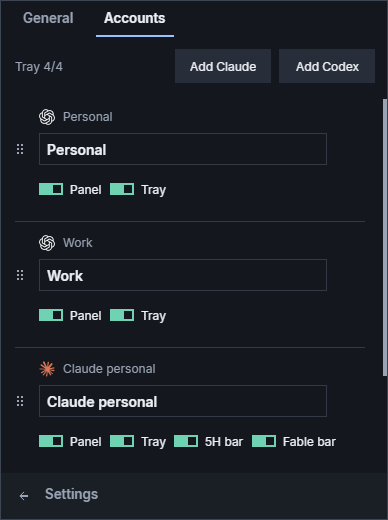
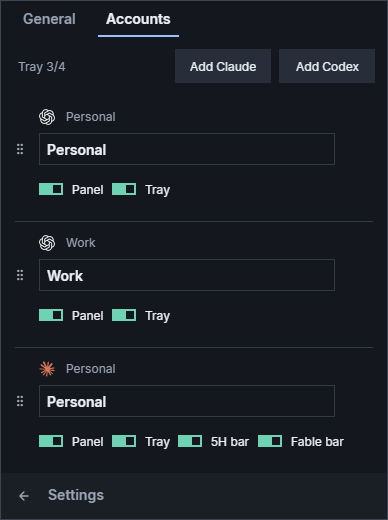
Simplify README and refresh usage screenshots

diff --git a/Diagnostics/Preview.cs b/Diagnostics/Preview.cs
@@ -8,7 +8,7 @@ internal static class Preview
     {
         string folder = Path.GetDirectoryName(Path.GetFullPath(path))!;
         Directory.CreateDirectory(folder);
-        var demo = SampleData.Readings();
+        var demo = SampleData.ScreenshotReadings();
         var prefs = new Settings();
         foreach (var reading in demo) prefs.For(reading.Account);
         var overview = new UsagePanel { PreviewMode = true };
@@ -65,9 +65,10 @@ internal static class Preview
         hidden.UpdateRows(demo, prefs, false);
         await Capture(hidden, Path.Combine(folder, "hidden-limits-preview.png")); hidden.Shutdown();
         prefs.For(demo[2].Account).ShowFiveHour = prefs.For(demo[2].Account).ShowFable = true;
-        var detail = new AccountDetailsDialog(SampleData.Detail(demo[2]), prefs) { PreviewMode = true };
+        var detailReading = demo[2] with { Limits = [new("weekly", "Weekly", demo[2].Weekly!), .. demo[2].Limits!] };
+        var detail = new AccountDetailsDialog(detailReading, prefs) { PreviewMode = true };
         await Capture(detail, Path.Combine(folder, "account-detail-preview.png")); detail.Close();
-        var resetless = new AccountDetailsDialog(SampleData.Detail(demo[2]) with { Limits = [new("weekly", "Weekly", demo[2].Weekly!), new("session", "Five-hour", new(0, null, TimeSpan.FromHours(5)))] }, prefs) { PreviewMode = true };
+        var resetless = new AccountDetailsDialog(detailReading with { Limits = [new("weekly", "Weekly", demo[2].Weekly!), new("session", "Five-hour", new(0, null, TimeSpan.FromHours(5)))] }, prefs) { PreviewMode = true };
         await Capture(resetless, Path.Combine(folder, "resetless-detail-preview.png")); resetless.Close();
         var empty = new UsagePanel { PreviewMode = true };
         empty.UpdateRows([], new Settings(), false);

diff --git a/Diagnostics/SampleData.cs b/Diagnostics/SampleData.cs
@@ -3,6 +3,21 @@ namespace Pace;
 // Synthetic fixtures only. Preview and offline tests never discover real accounts.
 internal static class SampleData
 {
+    public static List<Reading> ScreenshotReadings()
+    {
+        var now = DateTimeOffset.UtcNow;
+        var demo = Readings(now).Take(3).ToList();
+        demo[0] = demo[0] with { Weekly = new(36, now.AddDays(3.64), TimeSpan.FromDays(7)) };
+        demo[1] = demo[1] with { Weekly = new(41, now.AddDays(4.1), TimeSpan.FromDays(7)), Resets = null };
+        demo[2] = demo[2] with
+        {
+            Account = demo[2].Account with { Label = "Personal" },
+            Weekly = new(30, now.AddDays(4), TimeSpan.FromDays(7)),
+            Limits = [new("session", "Five-hour", new(68, now.AddHours(3), TimeSpan.FromHours(5))), new("model:Fable", "Fable · Weekly", new(28, now.AddDays(4), TimeSpan.FromDays(7)))]
+        };
+        return demo;
+    }
+
     public static List<Reading> Readings(DateTimeOffset? at = null)
     {
         var now = at ?? DateTimeOffset.UtcNow;

diff --git a/README.md b/README.md
@@ -1,165 +1,67 @@
 # Pace
 
-A Windows and Linux tray app that shows Claude and Codex subscription usage relative to each
-account's weekly reset.
+A compact tray app for tracking AI subscription usage across Codex and Claude accounts on Windows and Linux. See how your usage compares with the time elapsed in each account's weekly cycle.
+
+![Weekly usage overview with two Codex accounts and one Claude account](docs/screenshots/overview.png)
 
 ## Download
 
-[Download for Windows](https://github.com/mweint/Pace/releases/latest/download/Pace-win-x64.zip)
+**[Windows](https://github.com/mweint/Pace/releases/latest/download/Pace-win-x64.zip)** — Extract the ZIP and open `Pace.exe` in the `Pace` folder. Windows 10/11, x64; .NET is included.
 
-1. Extract the ZIP.
-2. Open `Pace.exe` in the extracted `Pace` folder.
-3. Click the tray icon to view usage or manage accounts.
+**[Linux (preview)](https://github.com/mweint/Pace/releases/latest/download/Pace-linux-x64.tar.gz)** — Extract the archive and run `./Pace/install.sh`. Requires an x64 desktop with X11 libraries and ICU. Tray support works with KDE Plasma or GNOME's AppIndicator extension. Linux still needs validation on real desktops.
 
-Windows 10/11, x64. The .NET runtime is included. Keep the extracted files together.
-### Linux (preview)
+Existing CLI sign-ins are detected automatically. To add an account, install the corresponding Codex or Claude CLI and sign in through Pace. Click the tray icon to open the panel.
 
-[Download for Linux](https://github.com/mweint/Pace/releases/latest/download/Pace-linux-x64.tar.gz)
+## Usage and accounts
 
-```sh
-tar xzf Pace-linux-x64.tar.gz
-./Pace/install.sh            # installs to ~/.local; ./Pace/install.sh --uninstall removes it
-```
-
-x64 desktops with a StatusNotifier tray: KDE Plasma, or GNOME with the AppIndicator
-extension (included in Ubuntu). Requires the X11 libraries most desktops include
-(`libice6`, `libsm6`, `libfontconfig1`) and ICU. The panel opens on the panel edge
-where your desktop reserves space, beside the tray icon on X11 sessions and in that
-edge's corner on Wayland; hover summaries appear as the tray tooltip. Opening Pace
-from the applications menu while it runs shows its panel, which also works without a
-tray icon.
-
-Existing CLI sign-ins are detected automatically. Adding accounts requires the
-corresponding Claude or Codex CLI; sign-in opens in your browser. If no browser
-opens, **Copy link** copies the CLI's sign-in link to paste into one.
-
-## Screenshots
-
-Weekly overview, using sample accounts:
-
-![Weekly overview](docs/screenshots/overview.png)
+- **Mint:** below pace. **Blue:** on pace. **Orange:** above pace. **Gray:** unavailable or stale.
+- Pace compares usage with the elapsed portion of the week. On pace spans 4 percentage points below to 2 points above that baseline.
+- Click an account for weekly, session and model limits. Reset times are local; hover for a countdown.
+- Settings lets you rename, reorder or hide accounts, choose Claude's overview bars, and enable launch at sign-in. Removing an account keeps its sign-in files.
+- Usage refreshes every five minutes. Update checks run at launch and every six hours; automatic updates are optional on Windows. Linux updates are downloaded manually.
 
 <details>
-<summary>Account details, account management and tray hover</summary>
+<summary>More screenshots</summary>
 
 Account details:
 
-![Account details](docs/screenshots/account-details.png)
+![Claude account details](docs/screenshots/account-details.png)
 
-Manage accounts:
+Accounts:
 
-![Manage accounts](docs/screenshots/accounts.png)
+![Account management](docs/screenshots/accounts.png)
 
 Settings:
 
-![Settings](docs/screenshots/settings.png)
+![General settings](docs/screenshots/settings.png)
 
 Tray hover:
 
-![Tray hover](docs/screenshots/tray-hover.png)
+![Tray hover summary](docs/screenshots/tray-hover.png)
 
 </details>
 
-## Reading the display
+## Privacy
 
-Pace compares usage with the portion of the week elapsed since each account's reset.
-The tray icon shows up to four accounts:
-
-- Orange: more than 2 percentage points above pace.
-- Mint: more than 4 percentage points below pace.
-- Blue: within the -4 to +2 point range, inclusive.
-- Gray: usage is unavailable or stale.
-
-`+9% · 15h` means 9 percentage points above pace, or about 15 hours until the
-baseline catches up if usage stops. This is not a forecast. Provider rounding
-limits the precision of these numbers.
-
-Click an account for its available weekly, session and model-specific limits.
-Reset labels show local clock time, adding the weekday for another day; hover
-the account for the countdown. Banked resets appear beside the reset time;
-hover the badge for expiry dates.
-Orange indicates an expiry within seven days. Pace does not redeem resets.
-
-Account names, visibility and order save automatically. Removing an account stops
-monitoring it and keeps its sign-in files. Click away to dismiss the panel;
-right-click the tray icon to quit. Opening Pace again while it runs shows the panel.
-Sign-in can be cancelled while the browser is open and stops after ten minutes. Usage refreshes every five minutes and pace
-every minute.
-
-Claude account options include **5H bar** and **Fable bar** for the overview
-bars. Account details always show all available limits. An orange dot after an
-account name means a hidden limit is at least 90% used. Click the account for
-details. The dot clears when the bar is shown, usage falls below 90%, or the
-limit resets. It cannot be dismissed. Details and the tray icon have no dots.
-
-## Local data
-
-Settings and managed sign-ins are stored in `%APPDATA%/Pace` on Windows and
-`~/.config/Pace` on Linux. Data from the previous app name migrates automatically.
-Launch at sign-in uses a current-user startup entry on Windows and an XDG autostart
-entry (`~/.config/autostart/pace.desktop`) on Linux.
-
-## Settings
-
-The overview gear opens Settings, with General and Accounts tabs. General lets
-you choose reset clock times or time remaining, and enable or disable launching at
-sign-in. Accounts retains naming, ordering, sign-in and visibility controls.
-Tabs share a stable window size and footer, with room for three accounts;
-longer lists use a slim themed scrollbar when needed. The
-tray count and add-account actions live inside Accounts.
-
-Updates are checked at launch and every six hours against this repository's
-latest stable GitHub release. Check for updates runs a check immediately.
-An orange dot on Settings indicates an available update; Dismiss clears it for
-that version without removing the Update action. Automatic updates default off.
-When enabled, Pace downloads a verified Windows package and installs it on the
-next launch. Update installs immediately and restarts Pace. Packages must match
-the release checksum and version. The installer backs up replaced files and
-restores them if copying fails; settings and sign-ins remain outside the app.
-On Linux, Pace notifies about a new release and Download opens its release page;
-it does not replace its own files.
-
-Existing CLI sign-ins respect `CODEX_HOME` and `CLAUDE_CONFIG_DIR`. Tokens are read
-from local credential files and sent to the corresponding service. Official CLIs
-manage sign-in and renewal. Pace has no telemetry. An unexpected error writes only
-its exception type and stack trace to `error.log` in the Pace settings folder.
-Subscription endpoints are undocumented and may change.
+Credentials stay local and official CLIs manage sign-in and renewal. Tokens are sent only to the corresponding service. Pace has no telemetry. Settings and managed sign-ins live in `%APPDATA%/Pace` on Windows and `~/.config/Pace` on Linux. Subscription endpoints are undocumented and may change.
 
 <details>
 <summary>Development</summary>
 
-The desktop UI uses Avalonia, with one shared codebase. Platform differences (tray,
-startup, updates, CLI discovery) live in `Infrastructure`. Windows is verified; Linux
-passes the offline checks but needs validation on real desktops; macOS is not
-packaged. Requires the .NET 10 SDK. See
-[STYLEGUIDE.txt](STYLEGUIDE.txt) and [AGENTS.md](AGENTS.md) for theme ownership
-and contribution rules.
+Built with Avalonia and .NET 10. See [STYLEGUIDE.txt](STYLEGUIDE.txt), [AGENTS.md](AGENTS.md) and the [Linux test checklist](docs/linux-test-checklist.md).
 
 ```powershell
 dotnet build -c Release
-dotnet publish -c Release -r win-x64 --self-contained true -o dist/Pace
-.\bin\Release\net10.0\Pace.exe --self-test self-test.json
-.\bin\Release\net10.0\Pace.exe --render-preview preview.png
-powershell -File scripts/Publish-Linux.ps1   # dist/Pace-linux-x64.tar.gz
+.\bin\Release\net10.0\Pace.exe --self-test .local/self-test.json
+.\bin\Release\net10.0\Pace.exe --render-preview .local/overview.png
 ```
 
-Offline checks require an interactive desktop: Windows with Explorer, or a Linux
-X11/XWayland session. Preview mode
-uses sample accounts. `--live-check live-check.json` makes authenticated requests;
-its report stays local.
-
-Before publishing, stage source and required assets, then run
-`pwsh -File scripts/Verify-Repository.ps1`. Credentials, settings, environment files,
-local reports and builds are excluded from Git.
+Offline checks and previews require an interactive desktop. Previews use synthetic accounts. Before committing or publishing, inspect the index and run `pwsh -File scripts/Verify-Repository.ps1`.
 
 </details>
 
 ## Assets
 
-- [Lucide icons](https://github.com/lucide-icons/lucide/tree/main/icons): SVGs and
-  ISC/Feather MIT notices in `Assets/Icons`.
-- [Inter 4.1](https://github.com/rsms/inter/releases/tag/v4.1), by Rasmus Andersson:
-  Pace Sans is a renamed derivative with a centered tilde. The SIL Open Font
-  License and modification notice are in `Assets/Fonts`.
-
-Service icons retain the original provider artwork and sizes; attribution is in Assets/Icons/Service-marks.txt.
+- [Lucide icons](https://github.com/lucide-icons/lucide/tree/main/icons): ISC/Feather MIT notices in `Assets/Icons`.
+- [Inter 4.1](https://github.com/rsms/inter/releases/tag/v4.1), by Rasmus Andersson: Pace Sans is a renamed derivative; SIL Open Font License and modification notice in `Assets/Fonts`.
+- Original provider artwork: attribution in `Assets/Icons/Service-marks.txt`.
